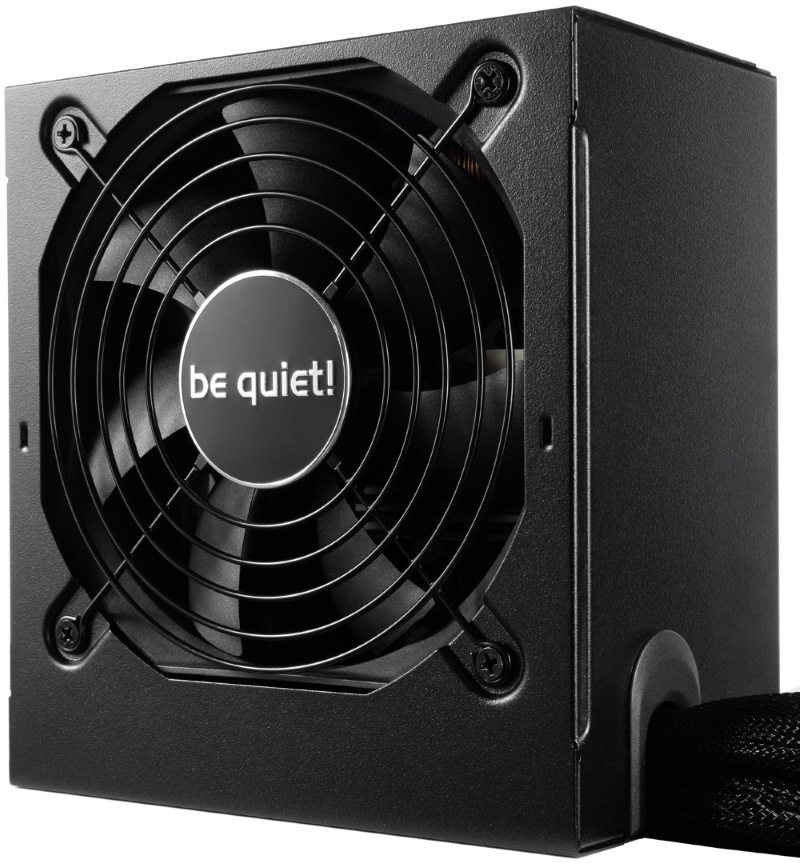
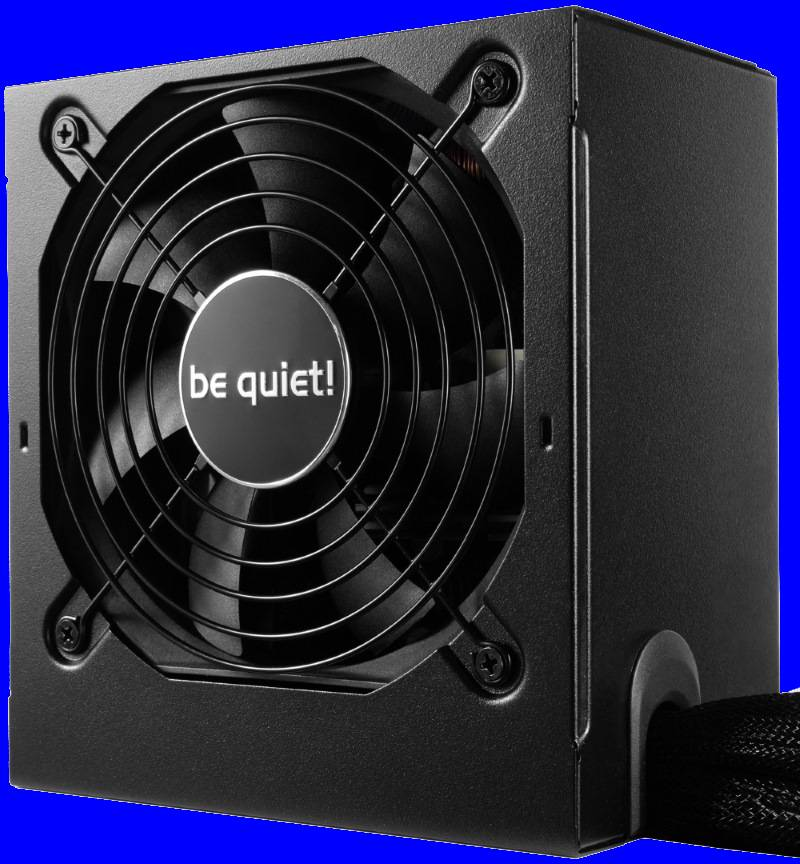
Added content on PSU page

Changed region(s): [[0.0, 0.0, 1.0, 1.0]]

diff --git a/PSU_page.html b/PSU_page.html
@@ -58,6 +58,31 @@
                 На основе вышесказанного можно сделать вывод, что на блоке питания не следует экономить и отдавать предпочтение нужно производителям с хорошей репутацией.
             </p><br>
             <p>Ссылка на калькулятор мощностей для БП: <a href="https://www.bequiet.com/ru/psucalculator" target="_blank">bequiet.com/ru/psucalculator</a></p>
+        </div><br>
+        <div class="real_psu">
+            <h1>Примеры реальных Ьлоков питания</h1><br>
+            <ul class="list_of_psu">
+                <li>
+                    <h2>FSP PNR PRO</h2>
+                    <a href="https://www.e-katalog.ru/FSP-ATX-500PNR-PRO.htm" target="_blank">
+                        <img src="Imgs/Блоки питания/FSP_PNR_PRO.jpg">
+                    </a>
+                    <p>Мощность: 500 Вт</p>
+                    <p>Форм-фактор: ATX</p>
+                    <p>КПД: 81 %</p>
+                    <p>Питание MB/CPU: 24+8 (4+4) pin</p>
+                </li><br>
+                <li>
+                    <h2>Be quiet System Power 9</h2>
+                    <a href="https://www.e-katalog.ru/BE-QUIET-BN246.htm" target="_blank">
+                        <img src="Imgs/Блоки питания/Be_quite_Power_9.jpg">
+                    </a>
+                    <p>Мощность: 500 Вт</p>
+                    <p>Форм-фактор: ATX</p>
+                    <p>КПД: 89 %</p>
+                    <p>Питание MB/CPU: 24+8 (4+4) pin</p>
+                </li>
+            </ul>
         </div>
     </main>
 </body>

diff --git a/FAN_page.html b/FAN_page.html
@@ -52,7 +52,7 @@
             <ul class="list_of_fan">
                 <li>
                     <h2>Deepcool GAMMAXX 300</h2>
-                    <a href="https://www.e-katalog.ru/DEEPCOOL-GAMMAXX-300.htm">
+                    <a href="https://www.e-katalog.ru/DEEPCOOL-GAMMAXX-300.htm" target="_blank">
                         <img src="Imgs/Системы охлаждения/Deepcool_GAMMAXX.jpg" height="20%" width="20%">
                     </a>
                     <p>Назначение: процессор</p>
@@ -63,7 +63,7 @@
                 </li><br>
                 <li>
                     <h2>Be quiet Dark Rock 4</h2>
-                    <a href="https://www.e-katalog.ru/BE-QUIET-DARK-ROCK-4.htm">
+                    <a href="https://www.e-katalog.ru/BE-QUIET-DARK-ROCK-4.htm" target="_blank">
                         <img src="Imgs/Системы охлаждения/Be_quite_DarkRock4.jpg" height="20%" width="20%">
                     </a>
                     <p>Назначение: процессор</p>
@@ -74,7 +74,7 @@
                 </li><br>
                 <li>
                     <h2>Deepcool GAMMAXX 300</h2>
-                    <a href="https://www.e-katalog.ru/NZXT-KRAKEN-X53.htm">
+                    <a href="https://www.e-katalog.ru/NZXT-KRAKEN-X53.htm" target="_blank">
                         <img src="Imgs/Системы охлаждения/NZXT_X53.jpg" height="40%" width="40%">
                     </a>
                     <p>Назначение: процессор</p>

diff --git a/HDD_page.html b/HDD_page.html
@@ -66,7 +66,7 @@
             <ul class="list_of_hdd">
                 <li>
                     <h2>WD Blue WD10EZEX</h2>
-                    <a href="https://www.e-katalog.ru/WD-WD10EZEX.htm">
+                    <a href="https://www.e-katalog.ru/WD-WD10EZEX.htm" target="_blank">
                         <img src="Imgs/HDD/WD_Blue.jpg" height="20%" width="20%">
                     </a>
                     <div class="specifications">
@@ -79,7 +79,7 @@
                 </li><br>
                 <li>
                     <h2>Seagate BarraCuda Compute ST1000DM010</h2>
-                    <a href="https://www.e-katalog.ru/SEAGATE-ST1000DM010.htm">
+                    <a href="https://www.e-katalog.ru/SEAGATE-ST1000DM010.htm" target="_blank">
                         <img src="Imgs/HDD/Seagate_Baracuda.jpg" height="20%" width="20%">
                     </a>
                     <div class="specifications">
@@ -92,7 +92,7 @@
                 </li><br>
                 <li>
                     <h2>WD Black Performance Mobile 2.5" WD10SPSX</h2>
-                    <a href="https://www.e-katalog.ru/WD-WD10SPSX.htm">
+                    <a href="https://www.e-katalog.ru/WD-WD10SPSX.htm" target="_blank">
                         <img src="Imgs/HDD/WD_Black.jpg" height="20%" width="20%">
                     </a>
                     <div class="specifications">

diff --git a/RAM_page.html b/RAM_page.html
@@ -59,7 +59,7 @@
             <ul class="list_of_ram">
                 <li>
                     <h2>Crucial Ballistix DDR4 2x8Gb</h2>
-                    <a href="https://www.e-katalog.ru/CRUCIAL-BL2K8G32C16U4B.htm">
+                    <a href="https://www.e-katalog.ru/CRUCIAL-BL2K8G32C16U4B.htm" target="_blank">
                         <img src="Imgs/Плашки ОЗУ/Crucial_2x8.jpg">
                     </a>
                     <div class="specifications">
@@ -72,7 +72,7 @@
                 </li><br>
                 <li>
                     <h2>Corsair Vengeance RGB Pro DDR4 1x8Gb</h2>
-                    <a href="https://www.e-katalog.ru/CORSAIR-CM4X8GD3200C16W4.htm">
+                    <a href="https://www.e-katalog.ru/CORSAIR-CM4X8GD3200C16W4.htm" target="_blank">
                         <img src="Imgs/Плашки ОЗУ/Corsair_1x8.jpg">
                     </a>
                     <div class="specifications">

diff --git a/StylePSU_page.css b/StylePSU_page.css
@@ -78,7 +78,7 @@ body {
     padding: 20px; /* Поля вокруг текста */
     color: #fff; /* Цвет текста */
 }
-.theoretical_introduction h1 {
+.theoretical_introduction h1, h2, p {
     color: #fff;
 }
 .name_of_page {
@@ -95,4 +95,18 @@ body {
 ol {
     position: relative;
     left: 25px;
+}
+.real_psu h1 {
+    color: #fff;
+    background-color: blue;
+    width: 550px;
+    padding: 5px;
+}
+.list_of_psu li {
+    background-color: blue;
+    padding: 10px;
+}
+img {
+    height: 25%;
+    width: 25%;
 }
